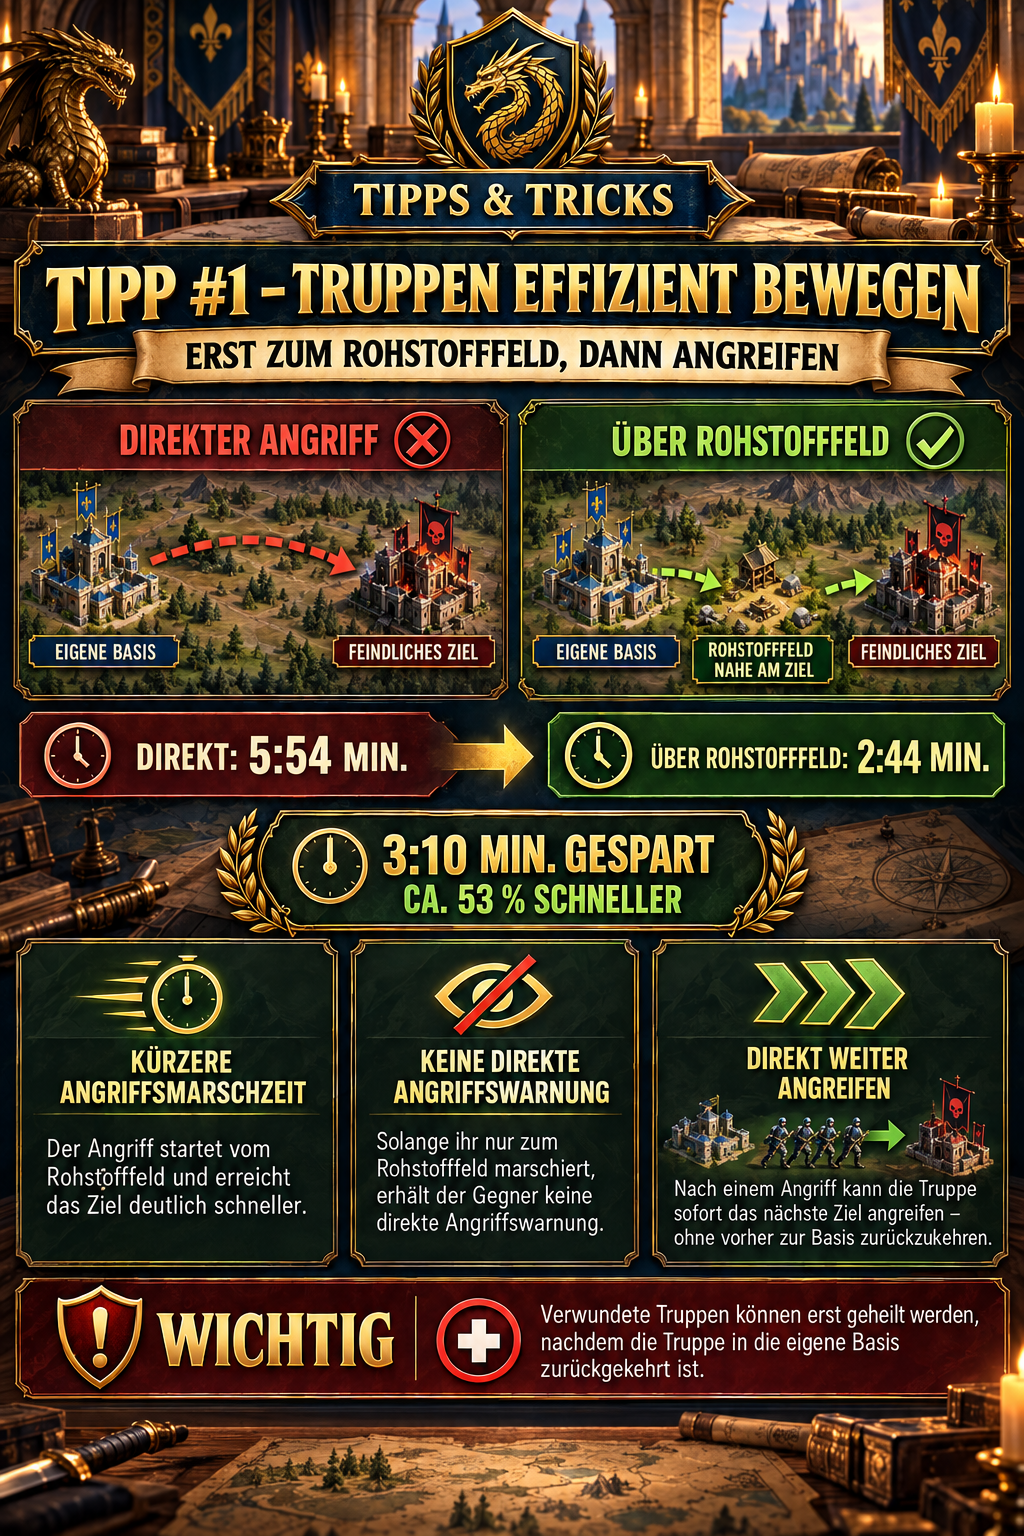
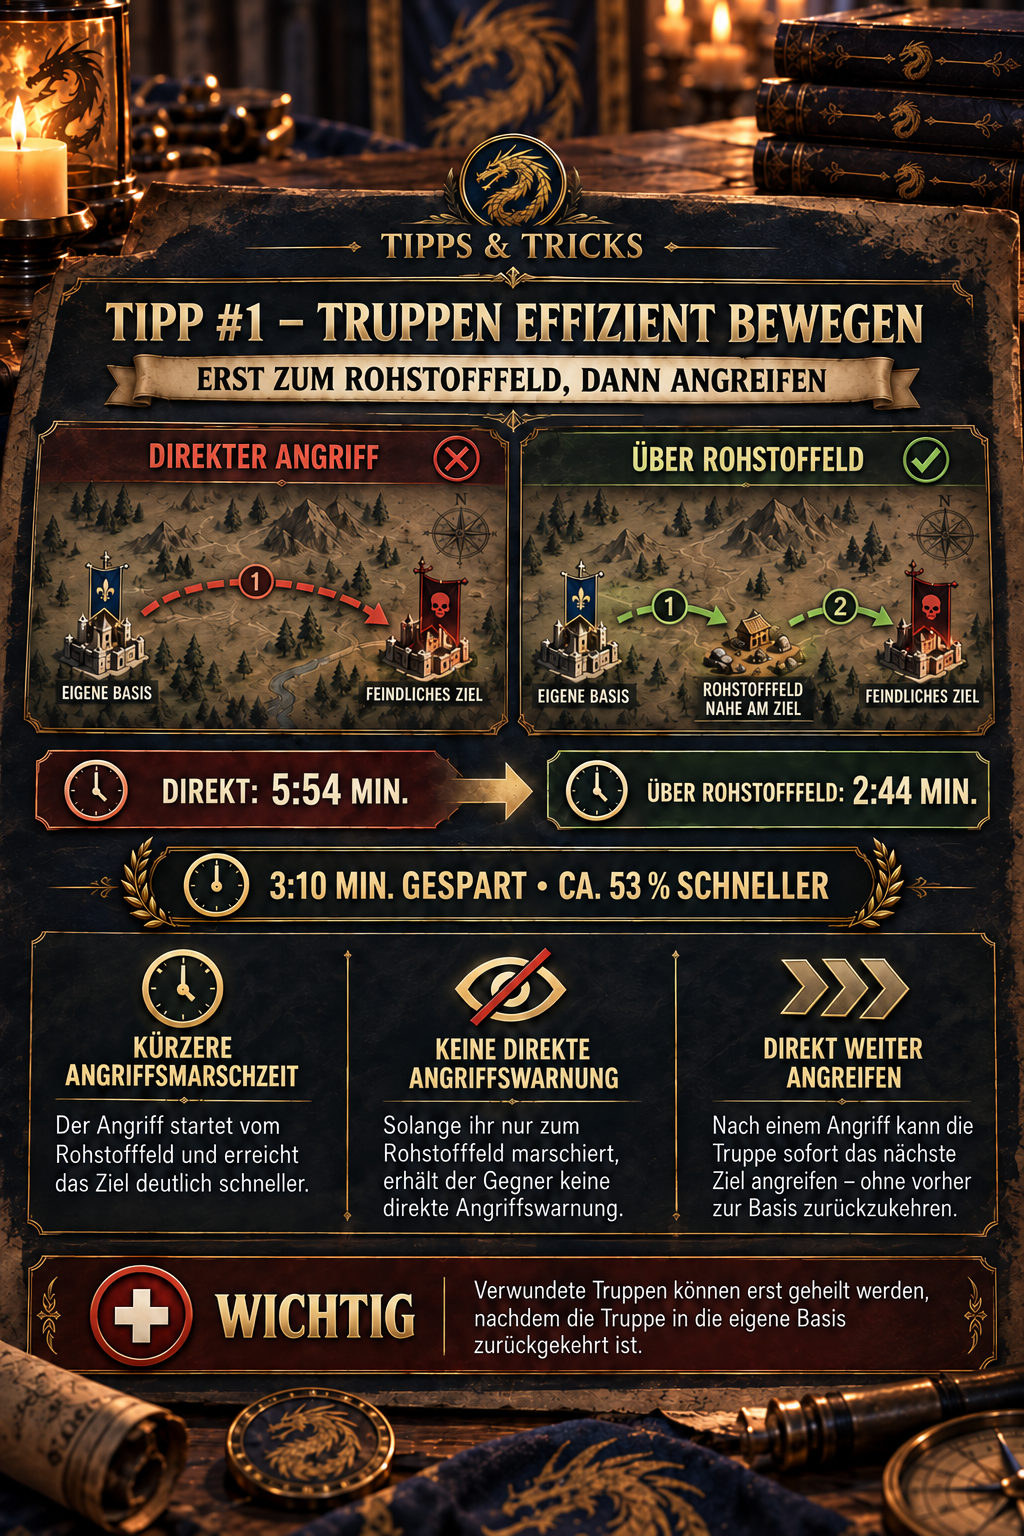
Update Tipp-Grafiken & DlE style guide
Replaces Tipp_01_TruppenEffizientBewegen.png and Tipp_02_Sammelangriffe.png with updated images and adds archived originals (including a compact variant) to 99_Archiv. Substantially revises 06_Design-Guidelines/DlE-Stil – Tipps.md: shifts visuals toward a filmic DlE-chatbild atmosphere, tightens color/typography guidance, adds a Symbolsprache section, refines layout/checklist items, and warns against event-plakat styling. Content/style changes only; no functional code changes.

diff --git a/06_Design-Guidelines/DlE-Stil – Tipps.md b/06_Design-Guidelines/DlE-Stil – Tipps.md
@@ -2,7 +2,7 @@
 
 ## Ziel
 
-Tipps sind eigenständige, direkt teilbare Wissensgrafiken für Z:Route: Redemption. Sie verbinden die hochwertige DlE-Bildsprache mit der Informationstiefe einer kompakten Spielanleitung.
+Tipps sind eigenständige, direkt teilbare Wissensgrafiken für Z:Route: Redemption. Sie verbinden die filmische Atmosphäre der DlE-Chatbilder mit der Informationstiefe einer kompakten Spielanleitung.
 
 Die Grafik soll den vollständigen Inhalt des zugehörigen Tipptextes verständlich vermitteln. Aufgeräumte Gestaltung bedeutet dabei eine klare Gliederung – nicht das Weglassen spielrelevanter Details.
 
@@ -28,31 +28,47 @@ Die Grafik soll den vollständigen Inhalt des zugehörigen Tipptextes verständl
   6. Warnung, Einschränkung oder wichtiger Zusatz
 - Der Hauptbereich erhält den größten Flächenanteil. Titel und Dekoration dürfen die erklärenden Inhalte nicht verdrängen.
 - Je nach Thema sind zwei bis vier klar getrennte Informationsblöcke zulässig.
-- Zusammengehörige Inhalte stehen in gemeinsamen Rahmen; unterschiedliche Fälle werden als Spalten oder aufeinanderfolgende Schritte dargestellt.
+- Zusammengehörige Inhalte stehen in gemeinsamen, ruhigen Flächen; unterschiedliche Fälle werden als Spalten oder aufeinanderfolgende Schritte dargestellt.
+- Die Grafik wirkt wie eine Seite aus einem hochwertigen Strategiebuch im Allianzsaal und nicht wie ein farbintensives Eventplakat.
 
 ## Informationsdichte
 
 - Eine Tippgrafik darf bewusst textreicher sein als eine allgemeine Allianz-Mitteilung.
 - Kurze Absätze mit zwei bis vier Zeilen sind zulässig und erwünscht, wenn sie eine Mechanik erklären.
 - Ablaufbeispiele werden mit nummerierten Schritten, Pfeilen oder Paarungen dargestellt.
+- Enthält eine vorhandene Referenzgrafik ein ausführliches Rechen-, Reihenfolge- oder Kampfschema, wird dieses als nachvollziehbares Beispiel übernommen und nicht auf die Grundregel reduziert.
+- Illustrative Ergebnisse werden ausdrücklich als **Beispiel** gekennzeichnet. Die Grafik trennt klar zwischen allgemeiner Regel und beispielhaftem Ablauf.
 - Konkrete Werte und Resultate werden groß genug hervorgehoben, ohne den erklärenden Kontext zu entfernen.
 - Wiederholungen und reine Werbesätze entfallen zugunsten spielrelevanter Informationen.
 - Freie Fläche dient der Lesbarkeit, nicht als Selbstzweck.
 
 ## Bildsprache
 
-- Edler, halb-realistischer Fantasy-Infografikstil mit dunkelblauer Grundfläche, goldenen Rahmen und warmem bernsteinfarbenem Licht.
-- Hintergrund: ruhiger Strategieraum, Burghalle, Kartenraum oder abstrahierte Schlachtkarte.
-- Goldene Drachenembleme, Schilde, Schwerter, Karten, Uhren und andere thematische Symbole schaffen Wiedererkennung.
-- Helle Pergamentflächen werden für längere Erklärungen verwendet.
-- Grün kennzeichnet Vorteile, richtige Abläufe und Empfehlungen.
-- Rot kennzeichnet Gefahren, falsche Wege und Warnungen.
-- Figuren sind höchstens kleine unterstützende Elemente und nie das Hauptmotiv.
+- Hochwertige, filmische und halb-realistische Fantasyillustration in der Atmosphäre der normalen DlE-Chatbilder.
+- Insgesamt dunkler, ruhiger und deutlich weniger gesättigt als Allianz-Mitteilungen oder Eventplakate.
+- Grundfarben: tiefes Navy, Anthrazit, dunkles Holz und geschwärztes Metall.
+- Akzente: gealtertes Gold und Messing statt leuchtendem Gelbgold; warmes, gedämpftes Bernsteinlicht statt greller Beleuchtung.
+- Grün erscheint nur als zurückhaltendes Moos- oder Olivgrün für richtige Abläufe und Vorteile.
+- Rot erscheint nur als gedecktes Ziegel- oder Weinrot für falsche Wege und Warnungen.
+- Hintergrund: atmosphärischer Strategieraum, dunkler Kartentisch, geöffneter Foliant, Pergamente, Kerzen und unscharfe Burgarchitektur.
+- Textflächen bestehen bevorzugt aus dunklem, leicht transparentem Material, gealtertem Pergament oder eingelassenen Tafeln. Große, vollflächig leuchtende Farbkästen werden vermieden.
+- Räumliche Tiefe, glaubwürdige Materialien, feine Gebrauchsspuren und weiche Lichtführung verbinden die Tipps sichtbar mit der Welt der Chatbilder.
+- Figuren sind höchstens unscharfe Nebenmotive und nie das Hauptmotiv.
+
+## Symbolsprache
+
+- Erklärende Symbole stehen im Mittelpunkt: klare Line-Art- oder Reliefsymbole für Basis, Ziel, Rohstofffeld, Truppe, Schild, Uhr, Auge, Heilung und Reihenfolge.
+- Symbole wirken wie geprägte Messingzeichen, Tintenzeichnungen, Kartenmarkierungen oder kleine Spielfiguren auf einem Strategietisch.
+- Pfeile, Nummern, Verbindungslinien und Zustandswechsel erklären Abläufe eindeutig.
+- Einfache Symbolfolgen werden aufwendigen Miniaturszenen, Gebäuderenderings oder Schlachtgemälden vorgezogen.
+- Jedes Symbol erhält eine kurze Beschriftung; seine Bedeutung darf nicht allein aus Farbe abgeleitet werden.
+- Kleine Detailhinweise, Randnotizen und Legenden sind erwünscht, wenn sie eine Mechanik genauer erklären.
+- Dekorative Symbole bleiben zurückhaltend und dürfen nicht mit erklärenden Symbolen konkurrieren.
 
 ## Typografie
 
-- Große goldene Serifenschrift für Tippnummer und Haupttitel.
-- Klare, kontrastreiche Groteskschrift für Erklärungen, Werte und Beschriftungen.
+- Prägnante, aber nicht überdimensionierte Serifenschrift in Altgold oder warmem Elfenbein für Tippnummer und Haupttitel.
+- Klare, kontrastreiche Groteskschrift in warmem Elfenbein oder hellem Pergamentton für Erklärungen, Werte und Beschriftungen.
 - Der Text muss auch in verkleinerter Chatansicht lesbar bleiben.
 - Überschriften werden kurz gehalten; erklärende Sätze stehen in eigenen Flächen.
 - Begriffe, Zahlen und Satzzeichen werden exakt geprüft. Deutsche Umlaute bleiben erhalten.
@@ -63,10 +79,10 @@ Alle Tippgrafiken verwenden wiederkehrend:
 
 - den Kopf `TIPPS & TRICKS`,
 - die Schreibweise `TIPP #N`,
-- einen goldenen Drachen auf dunkelblauem Schild,
-- goldene Rahmen mit zurückhaltenden Lilien- oder Drachenornamenten,
-- eine hervorgehobene grüne Empfehlung,
-- einen roten Hinweisbereich, sofern eine Warnung oder Einschränkung existiert.
+- einen dezenten Drachen als geprägtes Siegel, Wasserzeichen oder kleines Emblem,
+- feine Rahmen und zurückhaltende Lilien- oder Drachenornamente aus gealtertem Messing,
+- eine Empfehlung mit gedämpftem grünem Akzent,
+- einen Hinweisbereich mit gedämpftem rotem Akzent, sofern eine Warnung oder Einschränkung existiert.
 
 Die Allianzbezeichnung wird ausschließlich als **DlE** geschrieben. Wenn die Schreibweise in einer generierten Grafik nicht zuverlässig korrekt dargestellt werden kann, wird stattdessen ein neutrales Drachenemblem ohne Buchstaben verwendet.
 
@@ -76,11 +92,12 @@ Vor der Ablage wird jede Tippgrafik geprüft:
 
 1. Sind alle Aussagen des freigegebenen Textes inhaltlich vertreten?
 2. Sind Beispiele, Zahlen, Reihenfolgen und Bedingungen korrekt?
-3. Ist die wichtigste Handlung sofort erkennbar?
-4. Sind Warnungen und Einschränkungen vollständig enthalten?
-5. Bleibt der erklärende Text in kleiner Darstellung lesbar?
-6. Enthält die Grafik keine erfundenen Mechaniken oder zusätzlichen Slogans?
-7. Wurden historische Bezeichnungen wie `DRR` und `Drachenritter` entfernt?
+3. Wurden vorhandene mehrstufige Beispiele vollständig dargestellt, statt nur zusammengefasst?
+4. Ist die wichtigste Handlung sofort erkennbar?
+5. Sind Warnungen und Einschränkungen vollständig enthalten?
+6. Bleibt der erklärende Text in kleiner Darstellung lesbar?
+7. Enthält die Grafik keine erfundenen Mechaniken oder zusätzlichen Slogans?
+8. Wurden historische Bezeichnungen wie `DRR` und `Drachenritter` entfernt?
 
 ## Vermeiden
 
@@ -89,5 +106,8 @@ Vor der Ablage wird jede Tippgrafik geprüft:
 - Sehr große Titel auf Kosten des Hauptinhalts
 - Kleine, eng gesetzte Textwände ohne visuelle Gliederung
 - Dekorative Slogans ohne spielerischen Mehrwert
+- Stark gesättigte Farben, leuchtendes Gold und großflächige Ampelfarben
+- Aufwendige Gebäude-, Truppen- oder Schlachtszenen, wenn einfache Symbole den Ablauf klarer erklären
+- Der Look eines Eventplakats, einer modernen Dashboard-Oberfläche oder einer Hochglanz-Werbeanzeige
 - Moderne Sci-Fi-Oberflächen oder apokalyptische Schwarz-Rot-Gestaltung
 - Historische Allianzkennzeichnungen in aktuellen Grafiken
